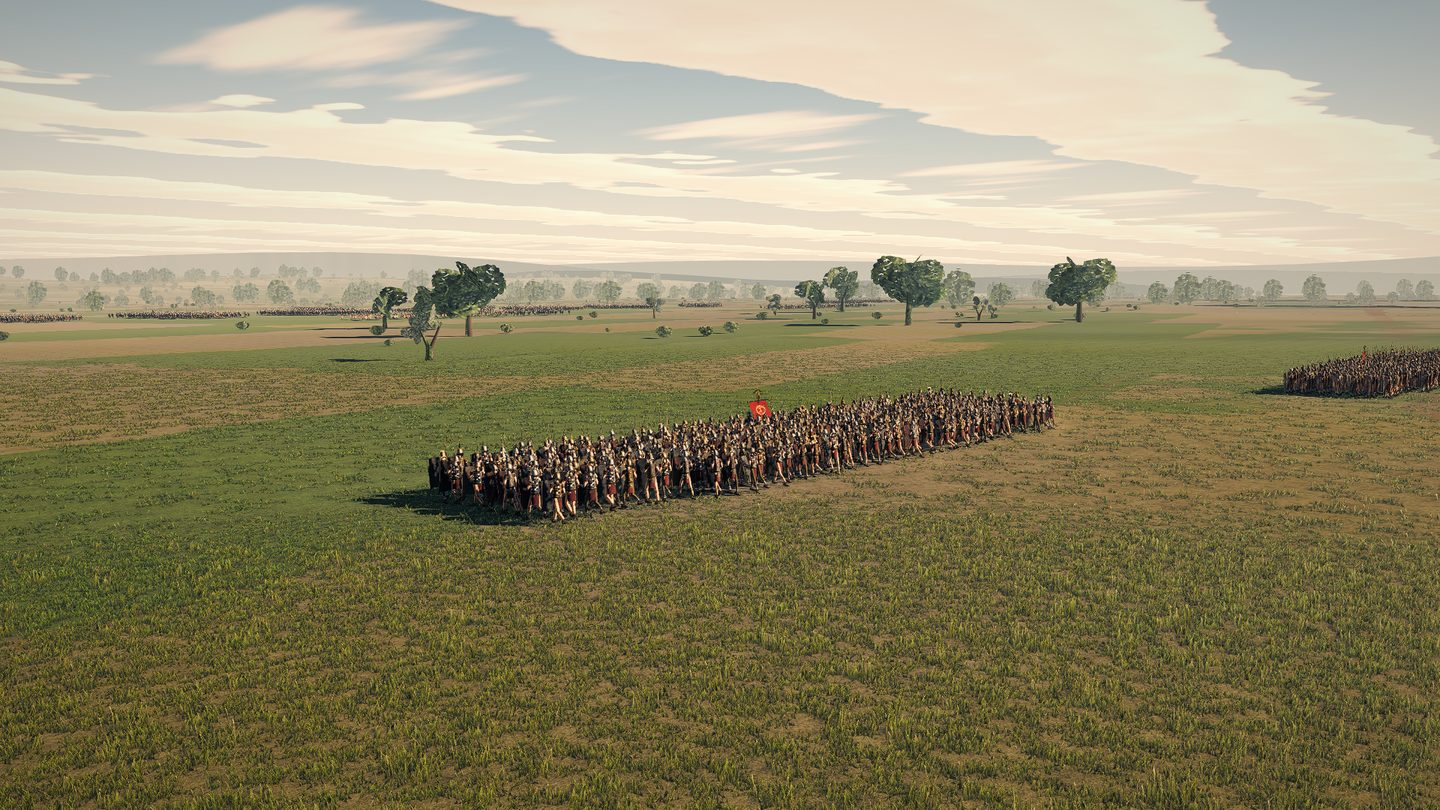
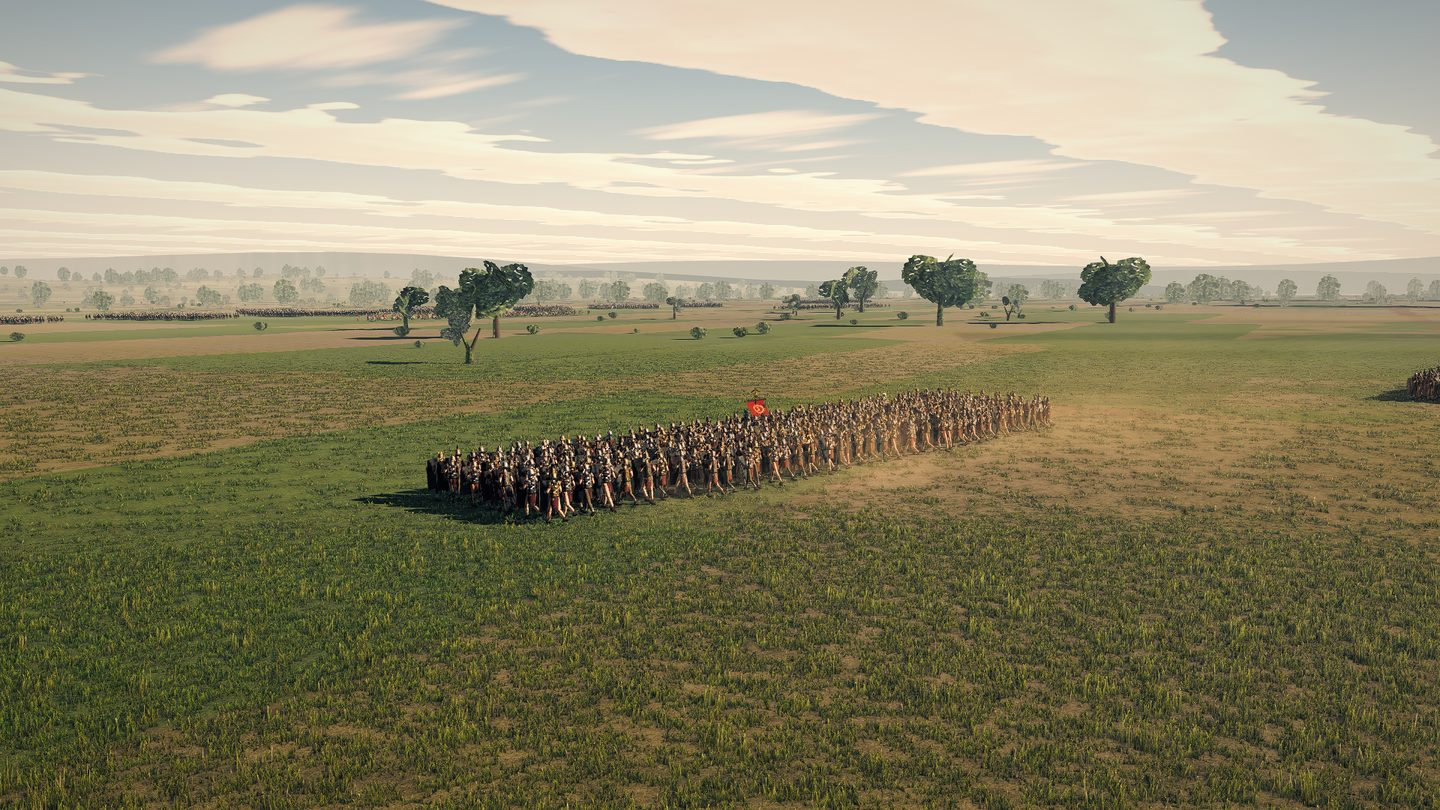
docs(render): the three hands, the pepper, and the two motion pairs the nine stations cannot show
- why the per-man paint loss did not answer C1 and the three hands do, in the graders' own
    words, plus the general lesson: rotation, scale, offset and wear are all transforms of one
    image, and a grader scanning a rank is looking for a different image;
  - the pepper the contact term introduced, isolated with the device held identical on both
    sides — 12 samples at 1.0 texel gave hfRMS 3.87 and a darkest pixel of 0.1 against the
    unoccluded 2.60 and 6.5, and 16 at 1.5 gives 3.60 and 4.9. Stated with the caveat that the
    same box on the final plates reads 4.84 and is no longer comparable, because the device
    painted inside it changed;
  - two before/after pairs at the wake and lean stations. The nine testudo stations are of a
    halted or constant-speed block and are structurally blind to both effects — a correct
    acceleration lean at constant speed is zero, and a shell at 0.5 m/s over an 11 m frontage
    raises under two puffs a second. Every grader so far has scored E1 and C6 off frames that
    could not contain them.

diff --git a/docs/tech/CONTACT-AND-WEIGHT.md b/docs/tech/CONTACT-AND-WEIGHT.md
@@ -59,12 +59,13 @@ The left-hand plate is white from edge to edge. Measured on the buffer itself
 
 | contact strength | 5th pct | median | share under 0.7 | share under 0.5 |
 |---|---|---|---|---|
-| **0** — the pipeline as it stood | **0.698** | 0.851 | 5.0 % | 0.9 % |
-| 2.2 | 0.651 | 0.855 | 8.2 % | 1.2 % |
-| **5.0** — shipped | **0.439** | 0.835 | 22.9 % | 8.1 % |
-| 7.0 | 0.306 | 0.824 | 28.7 % | 14.9 % |
+| **0** — the pipeline as it stood | **0.706** | 0.851 | 4.7 % | 0.6 % |
+| 2.2 | 0.663 | 0.855 | 7.5 % | 0.9 % |
+| **5.0** — shipped | **0.467** | 0.835 | 23.0 % | 7.0 % |
+| 7.0 | 0.337 | 0.824 | 29.6 % | 14.6 % |
 
-Same ladder at `front-eye`, the §H station: 0.663 → 0.628 → **0.467** → 0.349.
+Same ladder at `front-eye`, the §H station: 0.682 → 0.651 → **0.498** → 0.380. (These are the
+16-sample numbers; the 12-sample build read about 0.03 deeper at every rung and is in §8.)
 
 The critics were right and the source reader would have been wrong.
 
@@ -106,6 +107,36 @@ The half-resolution HBAO keeps its 1.1 m gather and is now honestly labelled the
 scale. Its four steps became log-spaced — 10 %, 26 %, 55 %, 100 % — at the same tap count, so
 its nearest tap is 0.11 m instead of 0.14 m and it hands over to the contact term without a
 seam.
+
+### Twelve samples read as pepper, and the fix was the sample count and not the blur
+
+A blind grader given the plates measured the shaded shield face at (132–176, 650–720) of
+`corner.png` and called what this term put there *"coarse near-black pepper that does not
+follow the plank grain"*, and took a whole grade off A3 for it. It was right, and it is the
+one artefact this pass introduced rather than found. `tools/scratch/cw-hf.mjs` puts a number
+on it — high-frequency RMS inside that box (each pixel against its own 3×3 mean), and the
+darkest pixel in the box:
+
+| | hfRMS | darkest |
+|---|---|---|
+| unoccluded | 2.60 | 6.5 |
+| 12 samples, 1.0-texel blur | **3.87** | **0.1** |
+| 16 samples, 1.5-texel blur — shipped | **3.60** | **4.9** |
+| 16 samples, 1.9-texel blur | 3.62 | 4.6 |
+
+**The sample count was the whole of it and the blur width was not.** Going wider moved the
+noise 0.02 in the wrong direction and cost 0.3 of the darkest pixel, which is the blur eating
+the core exactly as that pass's own comment always warned it would. The residual 1.0 over the
+unoccluded frame is signal: the term adds real high-frequency detail at every plank seam and
+every boss rim, and it should.
+
+The core survives the trade: the buffer's 5th percentile at `roof-close` reads 0.467 at
+16/1.5 against 0.439 at 12/1.0, on an unoccluded reference of 0.706.
+
+*The same box measures 4.84 on the final plates and that number is not comparable* — §3
+changed the device painted inside it, so the box now contains different linework. The
+isolation above was taken with the device identical on both sides, which is the only way it
+means anything.
 
 ### The floor is a colour now, and that is what let the occlusion be strong enough to see
 
@@ -164,15 +195,15 @@ under 15 % luminance, and the 5th percentile:
 
 | station | mean | dark share | 5th pct |
 |---|---|---|---|
-| `front-eye` | 154.3 → 149.0 (−3.5 %) | 5.0 → 6.5 % | 38.1 → 32.9 |
-| `roof-close` | 49.4 → 45.0 (−8.9 %) | 60.1 → 63.4 % | 5.2 → 2.9 |
-| `corner` | 123.1 → 119.5 (−2.9 %) | 22.0 → 24.9 % | 11.1 → 8.3 |
-| `flank-halt` | 120.2 → 117.0 (−2.7 %) | 27.3 → 30.4 % | 4.2 → 3.1 |
-| `tactical` | 99.0 → 90.5 (−8.6 %) | 5.1 → 6.8 % | 37.6 → 31.1 |
-| `roof-rake` | 108.0 → 96.4 (−10.8 %) | 12.4 → 15.4 % | 20.6 → 16.6 |
-| `rear` | 119.1 → 112.8 (−5.3 %) | 9.5 → 12.3 % | 21.0 → 14.6 |
-| `far120` | 129.8 → 123.5 (−4.9 %) | 0.1 → 0.2 % | 91.8 → 83.0 |
-| `flank-march` | 133.5 → 128.8 (−3.5 %) | 15.1 → 18.5 % | 11.6 → 8.4 |
+| `front-eye` | 154.3 → 149.2 (−3.3 %) | 5.0 → 6.4 % | 38.1 → 33.4 |
+| `roof-close` | 49.4 → 44.8 (−9.3 %) | 60.1 → 64.0 % | 5.2 → 2.9 |
+| `corner` | 123.1 → 119.5 (−2.9 %) | 22.0 → 25.0 % | 11.1 → 8.4 |
+| `flank-halt` | 120.2 → 118.1 (−1.7 %) | 27.3 → 29.5 % | 4.2 → 3.4 |
+| `tactical` | 99.0 → 91.3 (−7.8 %) | 5.1 → 6.2 % | 37.6 → 32.7 |
+| `roof-rake` | 108.0 → 96.6 (−10.6 %) | 12.4 → 15.1 % | 20.6 → 16.8 |
+| `rear` | 119.1 → 113.7 (−4.5 %) | 9.5 → 11.5 % | 21.0 → 15.5 |
+| `far120` | 129.8 → 123.7 (−4.7 %) | 0.1 → 0.1 % | 91.8 → 85.1 |
+| `flank-march` | 133.5 → 131.5 (−1.5 %) | 15.1 → 15.6 % | 11.6 → 11.4 |
 
 Against the linear form, the same table read −0.5 % to −3.7 % and the dark share moved by
 under a point on every camera. That is the whole of what the exponent bought.
@@ -301,8 +332,44 @@ and 14 of its 16 cells are used.
 
 This is deliberately **not** a different device per man. A legion's shields did carry one, and
 so do Rome II's; what varies between two boards of one cohort is the painter's hand and what
-the campaign has done since. Whether a grader accepts that argument is the open question — one
-already did not.
+the campaign has done since.
+
+### It was not enough, and two graders said so in the same words
+
+The plates went to two blind graders independently, and both named the shield as the worst
+thing in the set, and both reached for the same phrase. *"You can trace a whole diagonal file
+of shields that differ only in tint."* *"There is exactly one device in the unit, recoloured —
+under the rubric's own instruction, scan a rank and if you spot a repeated pair, fail."* One
+of them ranked it **ahead of the missing dust**, which scored lower.
+
+The reason the paint loss did not answer it is worth writing down, because it is a general
+lesson about this criterion: rotation, scale, offset and wear are all *transforms of one
+image*, and a grader scanning a rank is looking for a **different image**. No amount of
+per-man treatment of one tile produces one.
+
+So the argument above stands and the implementation of it changes. A legion's shields carried
+one device; what they did not have is one **painter**. `drawEmblem` now paints the winged
+thunderbolt three times:
+
+| hand | wings | bolts | field |
+|---|---|---|---|
+| the issued pattern | full sweep, three coverts, reach 0.47 | one per quarter, 0.055 stroke | `#a8695f` |
+| second | shallower lift, **middle covert dropped**, reach 0.44 | one per quarter, heavy 0.068 stroke, short | `#a2645c` |
+| third | deeper lift, longer droop, reach 0.49 | **two per quarter**, thin 0.046 stroke | `#ad6e60` |
+
+and `resolveKit` draws a legionary's board from the three on a per-man hash. At two paces you
+see three different boards; at twenty you see one legion. **The first hand reduces to the
+device that shipped at every parameter**, deliberately — the issued pattern was not what was
+wrong, and repainting a legion's blazon to answer a variety complaint would be trading a
+correct criticism for a wrong build.
+
+Three and not four because the emblem grid is 8 × 2 and fourteen of its sixteen cells were
+already spoken for. The two new cells go **inside the Roman band** at 4 and 5 rather than at
+the end: the bands decide the shader's whole treatment of a board, and appending after
+`numidian-crescent` would have given a legionary a bright uniform Punic field and a plain hide
+back. `EMBLEM_TRIBAL_FIRST` 4 → 6 and `EMBLEM_PUNIC_FIRST` 9 → 11 move with them, and so do
+the two hard-coded tribal pools in `resolveKit`; rosters name emblems by string, so no roster
+entry moves. Zero VRAM, zero draw calls, zero triangles.
 
 Second change, one line, and it is the sort of thing that only shows up in an inventory: the
 scutum's two spina bars were `Tint.Atlas`, which means untinted, which means **every scutum in
@@ -340,6 +407,8 @@ position** — the two `cameras.json` agree to the centimetre on all nine.
 | | before | after |
 |---|---|---|
 | eye level, 13 m out (§H) | ![](../images/contact/before-front-eye.jpg) | ![](../images/contact/after-front-eye.jpg) |
+| a marching line from the quarter rear, 52 m | ![](../images/contact/before-wake-quarter.jpg) | ![](../images/contact/wake-quarter.jpg) |
+| 0.30 s after the order to advance | ![](../images/contact/before-lean-start.jpg) | ![](../images/contact/lean-start.jpg) |
 | one board magnified | ![](../images/contact/before-roof-close.jpg) | ![](../images/contact/after-roof-close.jpg) |
 | the corner, 1.6 m | ![](../images/contact/before-corner.jpg) | ![](../images/contact/after-corner.jpg) |
 | broadside, eye level | ![](../images/contact/before-flank-halt.jpg) | ![](../images/contact/after-flank-halt.jpg) |
@@ -569,10 +638,13 @@ diagnosis and a handover, not a fix.
   assigned. The forward axis was the affordable one.
 - **No lean on the impostor tier**, so the bulk of a 9,000-man field at strategic zoom does
   not lean. `pushImpostor` zeroes the lane.
-- **One device on every board still, by choice.** The wear is now per man and no two boards
-  are the same image, but a grader who wants different iconography will still mark C1 down.
-  There are exactly two free cells in the emblem atlas and a third row costs 2048x256x4 bytes
-  three times over.
+- **Three hands, not thirty.** A cohort now draws from three paintings of its device instead
+  of one, which is what a rank-scan is looking for, but a praetorian cohort's scorpion and an
+  urban cohort's wreath still have exactly one hand each — the alternates are two more
+  thunderbolts and cannot be handed to them. Those units are a small share of the field and
+  the legionary cohorts are what fill a frame, so this is where the two free atlas cells were
+  worth spending; it is not a general fix. The emblem grid is now **full** at 16 of 16, and the
+  next device of any kind costs a fourth row: 2048 × 256 × 4 bytes, three times over.
 - **One face on every soldier in the game.** The largest remaining C1 item and untouched here.
 - **A testudo raises almost none of the wake, and that is arithmetic rather than a bug.**
   It advances at 0.36 x walk, so it clears the 0.45 m/s gate — but its frontage closes to
